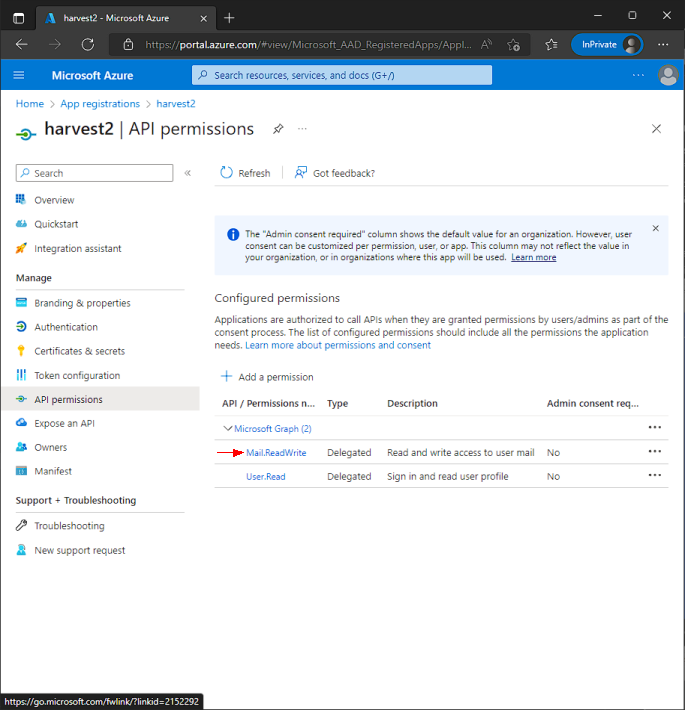
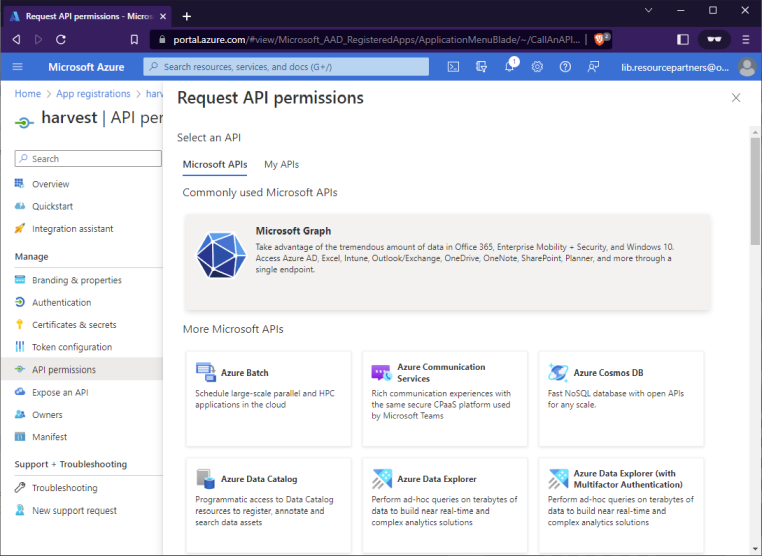
Updated documentation.

diff --git a/docs/outlook-configuration.md b/docs/outlook-configuration.md
@@ -1,4 +1,4 @@
-# Partner Synchronisation with Alma - Outlook Configuration
+# Outlook Configuration
 __[HOME](README.md)__
 
 ## Outlook Configuration
@@ -9,20 +9,124 @@ The second step is to create an __'App Registration'__. This enables programmati
 We will cover both these tasks in detail.
 
 ## Creating an Outlook Account
-You can simply go to https://outlook.live.com and create a new account. Select the Create account link in the top right corner.
 
-![Creating an Outlook account](aoutlook-oauth2/outlook-oauth2-01.png)
+1. Create an Outlook Account. You can simply go to https://outlook.live.com and create a new account. Select the Create account link in the top right corner.
 
-![New Outlook account welcome screen](aoutlook-oauth2/outlook-oauth2-02.png)
+   ![Creating an Outlook account](outlook-oauth2/outlook-oauth2-01.png)
 
-Once you've created your account and logged in, you will need to create a new folder called 'Processed'. This is where Tepuna emails are moved once they are processed.
-![New Outlook account Inbox](aoutlook-oauth2/outlook-oauth2-03.png)
+   ![New Outlook account welcome screens](outlook-oauth2/outlook-oauth2-02.png)
+
+2. Once you've created your account and logged in, you will need to create a new folder called 'Processed'. This is where Tepuna emails are moved once they are processed.
+ 
+   ![New Outlook account Inbox](outlook-oauth2/outlook-oauth2-03.png)
 
 ## Creating an App Registration
 Creating an __App Registration__ allows the harvest application to interact programmatically with the Outlook account via the [Microsoft Graph API](https://learn.microsoft.com/en-us/outlook/rest/get-started).
 
-Some additional links:
+Some additional reading (optional):
 - [OAuth2 using Microsoft AD](https://learn.microsoft.com/en-us/azure/active-directory/develop/)
 - [Registering an Application](https://learn.microsoft.com/en-us/azure/active-directory/develop/quickstart-register-app)
-- [Azure Portal for managing App Registrations](https://portal.azure.com/)
 
+
+1. Login to the Azure Portal using the same credentials as the Outlook account. This will take you to the Azure Management Portal for managing App Registrations.
+
+   [Azure Portal ](https://portal.azure.com/)
+
+   ![Azure Portal](outlook-oauth2/outlook-oauth2-04.png)
+
+2. In the search box at the top, search for 'app registrations'. This should filter down the list of services to App Registrations which you will see in the list under the search box. Select __'App registrations'__ which will take you to the __App registration__ management page.
+   ![App registration selection](outlook-oauth2/outlook-oauth2-05.png)
+
+3. Select __New Registration__.
+   ![App registration management](outlook-oauth2/outlook-oauth2-06.png)
+
+4. Register an application. Select a name (_harvester_ is a good exampe and is perfectly fine). The supported account type should be 'Personal Microsoft accounts only' provided you are using one of the free accounts for Outlook. If you are using an Organisation account, then you would choose 'Accounts in any organizational directory'. However, if that is the case, you would typically require a IT Administrator to create the App Registration.
+   
+   Set the Redirect URI to __'Web'__ and __'http://localhost/outlook'__. This will come in to play a bit later. Click on the Register button.
+
+   ![Register an application](outlook-oauth2/outlook-oauth2-07.png)
+
+5. You should now have an app registered.
+   ![Registered apps](outlook-oauth2/outlook-oauth2-08.png)
+
+6. Click on the app that you just created. It should take you to the screen that allows you to configure the various aspects of the application.
+   
+   There are four areas we are going to configure:
+   1. Branding & properties
+   2. Authentication
+   3. Certificates & secrets
+   4. API permissions
+
+   ![Configuring the app](outlook-oauth2/outlook-oauth2-09.png)
+
+7. Configure __Branding & properties__. This is not mandatory, but if you want to add any specifics to this page, you can do so.
+   ![Configuring Branding & properties](outlook-oauth2/outlook-oauth2-10.png)
+
+8. Configure __Authentication__. Here, ensure that the Web section has a Redirect URI of http://localhost/outlook. Also ensure the __Access tokens__ and __ID tokens__ boxes are checked.
+   ![Configuring Authentication](outlook-oauth2/outlook-oauth2-11.png)
+
+9. Configure __Certificates & secrets__. Select the __Client secret__ tab, then click __New client secret__. On the __Add a client secret__ screen, add a description and select Expires as 24 months.
+   ![Configure Certificates & properties](outlook-oauth2/outlook-oauth2-12.png)
+
+   Once the secret is created, copy and save the secret value immediately. __Once you leave this page, you will not be able to retrieve the secret again and will need to create a new secret__.
+   ![Save the secret](outlook-oauth2/outlook-oauth2-13.png)
+
+10. Configure __API permissions__. Here we add the permissions that this App registration will have. We need to give it the ability to Read and Write to the accounts Mailbox. The __User.Read__ permissions should already be set. We need to add one additional permission: Mail.ReadWrite.
+
+    Click on __Add a permission__ and select Microsoft Graph (which should be at the top).
+    ![Microsoft Graph API](outlook-oauth2/outlook-oauth2-14.png)
+
+    You will then be asked for the type of permissions required. Select __Delegated permissions__.
+    ![Select permission type](outlook-oauth2/outlook-oauth2-15.png)
+    
+    You will then be presented with a list of permissions categories. Scroll down to __Mail__. Expand this category and then select __Mail.ReadWrite__. Finish by clicking on the __Add permissions__ button at the bottom.
+    ![Add permission](outlook-oauth2/outlook-oauth2-16.png)
+
+    You should now see a screen with two permissions granted:
+    - Mail.ReadWrite
+    - User.Read
+    
+    ![Permissions list](outlook-oauth2/outlook-oauth2-17.png)
+
+__Congratulations! You are done!__
+
+## Generating an Access Token
+Now that our Outlook account is configured, and our App is registered, the last thing we need to do is create an __Access Token__ for our Harvest app to use.There are many different options to achieve this, but we will cover one that is simple but does require the use of PHP.
+
+1. If you don't currently have PHP installed, you will need to download and install it. If you are running Windows, this might help: [Installing PHP on Windows Systems](https://www.php.net/manual/en/install.windows.php).
+   
+   We don't need any complex functionality. We just need it to run the builtin PHP web server and process a simple PHP file.
+
+2. In the __project/docs/outlook-oauth2__ folder is a folder called '__outlook__'. Copy this folder somewhere accessable. Let us assumed that you placed it in __C:\Temp\rsp__ resulting in __C:\Temp\rsp\outlook__ 
+
+3. Edit the file __C:\Temp\rsp\outlook\index.html__.
+   - Change the __client_id=__ to the Client ID from your App registration.
+   - At the end of the line, change the Login: ____@____ to the Outlook email address.
+   
+   Edit the file __C:\Temp\rsp\outlook\lib.resourcepartners.php__.
+   - Change the __<input type="hidden" name="client_id" value="xxx" />__ to the Client ID from your App registration.
+   - Change the __<input type="hidden" name="client_secret" value="xxx" />__ to the Client secret you generated in your App registration.
+
+4. Open a command prompt/windows terminal and go to __C:\Temp\rsp__ (the folder that contains the __outlook__ folder).
+   
+5. Execute the following:
+   ```bash
+   php -S 127.0.0.1:80
+   ```
+
+6. Open a browser in Private/Incognito mode (safest) and go to ___http://localhost/outlook___
+   ![Login screen](outlook-oauth2/outlook-oauth2-18.png)
+
+7. Click on the Login link and enter the credentials for the Outlook account.
+   ![Login](outlook-oauth2/outlook-oauth2-19.png)
+
+8. This should return you to the Outlook folder served up by the PHP server.
+   ![Back to localhost server](outlook-oauth2/outlook-oauth2-20.png)
+
+9. Click on the Generate Token button. You will be presented with the generated Token. Copy this token and save it to the java application configuration folder: __data/config/OUTLOOK.json__
+  
+   ![Generate token](outlook-oauth2/outlook-oauth2-21.png)
+
+10. If you ever need to regenerate your tokens again, you can save the __outlook__ folder and perform steps 5-9 again. It is not common to have to regenerate tokens but can happen. I've not had to regenerate a token for the harvester for over 3 years now.
+
+__All done!__

diff --git a/docs/README.md b/docs/README.md
@@ -1,6 +1,7 @@
-# Partner Synchronisation with Alma - Overview
+# Partner Synchronisation with Alma
+__[HOME](README.md)__
 ## Table of Contents
-- [Overview](README.md)
+- [Partner Synchronisation with Alma](README.md)
   - [Table of Contents](README.md#table-of-contents)
   - [Introduction](README.md#introduction)
   - [Problem](README.md#problem)
@@ -18,6 +19,9 @@
   - [Installation](implementation.md#installation)
   - [Configuration](implementation.md#configuration)
 - [Configuring Outlook for Tepuna Status Emails](outlook-configuration.md)
+  - [Creating an Outlook Account](outlook-configuration.md#creating-an-outlook-account)
+  - [Creating an App Registration](outlook-configuration.md#creating-an-app-registration)
+  - [Generating an Access Token](outlook-configuration.md#generating-an-access-token)
 
 ---
 ## Introduction

diff --git a/docs/harvesting.md b/docs/harvesting.md
@@ -1,4 +1,4 @@
-# Partner Synchronisation with Alma - Harvesting Data Concepts
+# Harvesting Data Concepts
 __[HOME](README.md)__
 
 ![Harvesting Resource Sharing Partner Data](rsp-harvest-01.png)

diff --git a/docs/implementation.md b/docs/implementation.md
@@ -1,4 +1,4 @@
-# Partner Synchronisation with Alma - Implementation
+# Implementation
 __[HOME](README.md)__
 
 ## Obtaining the Software
